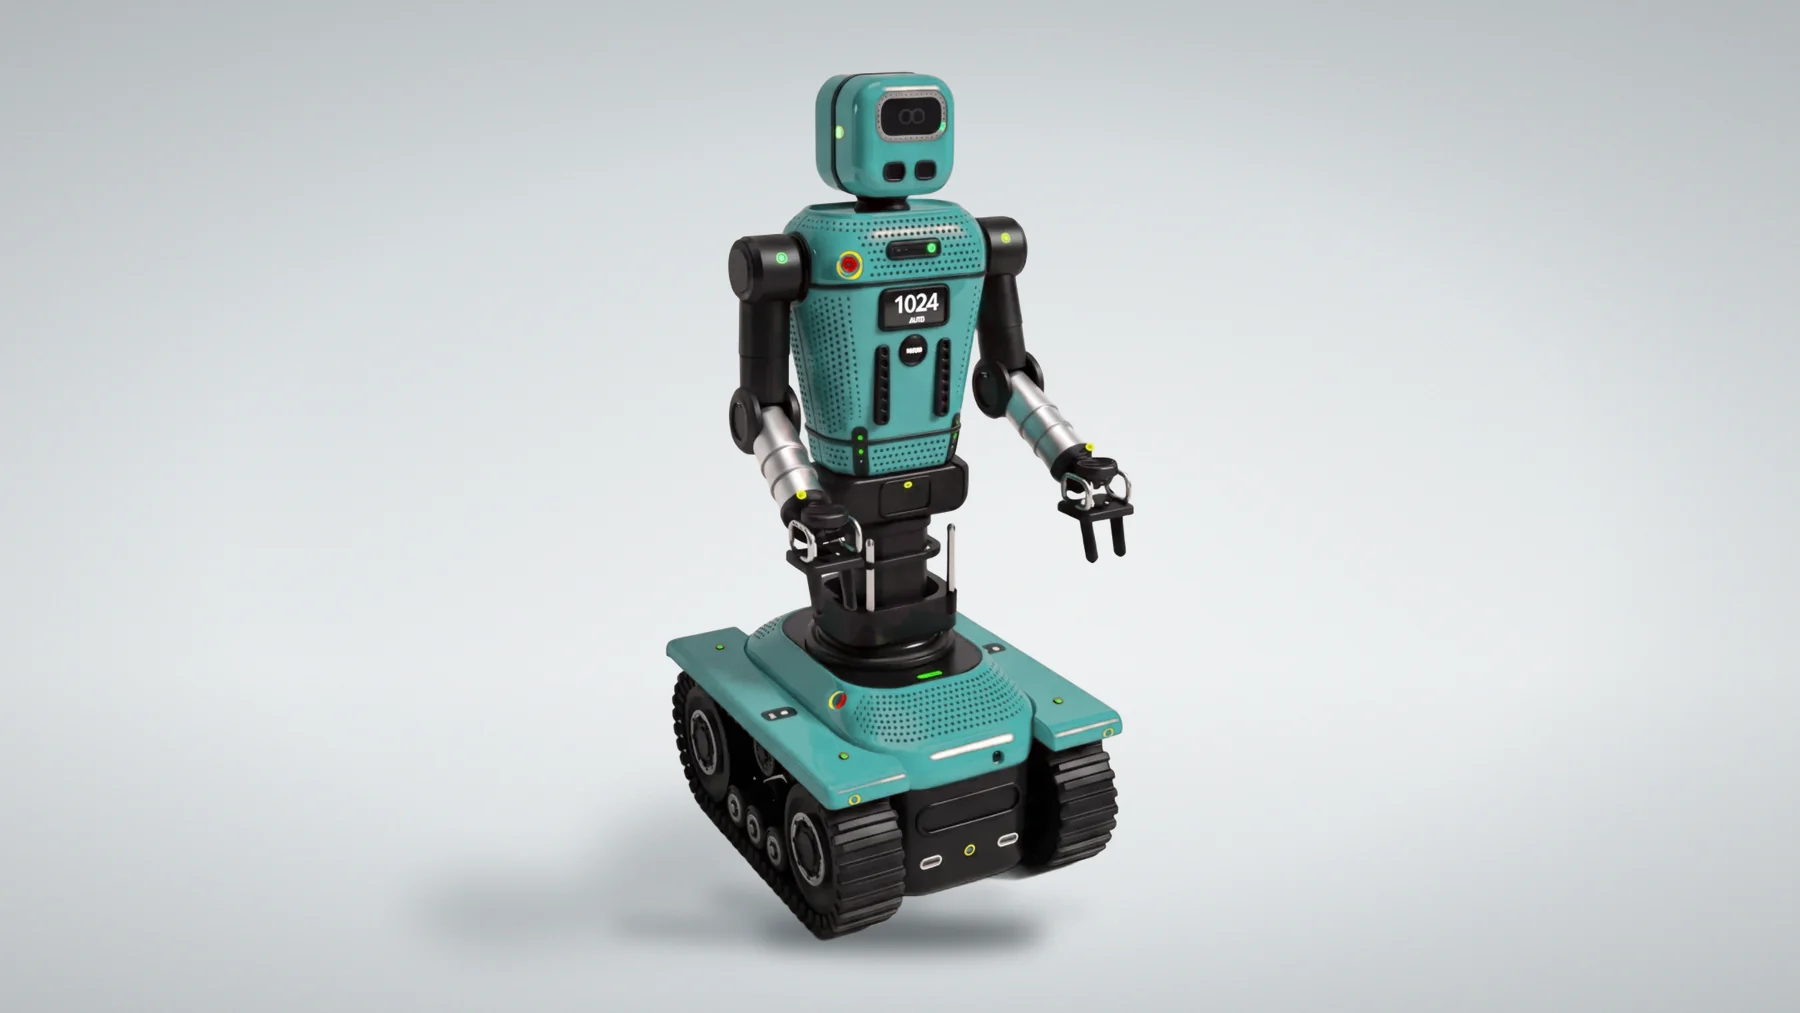
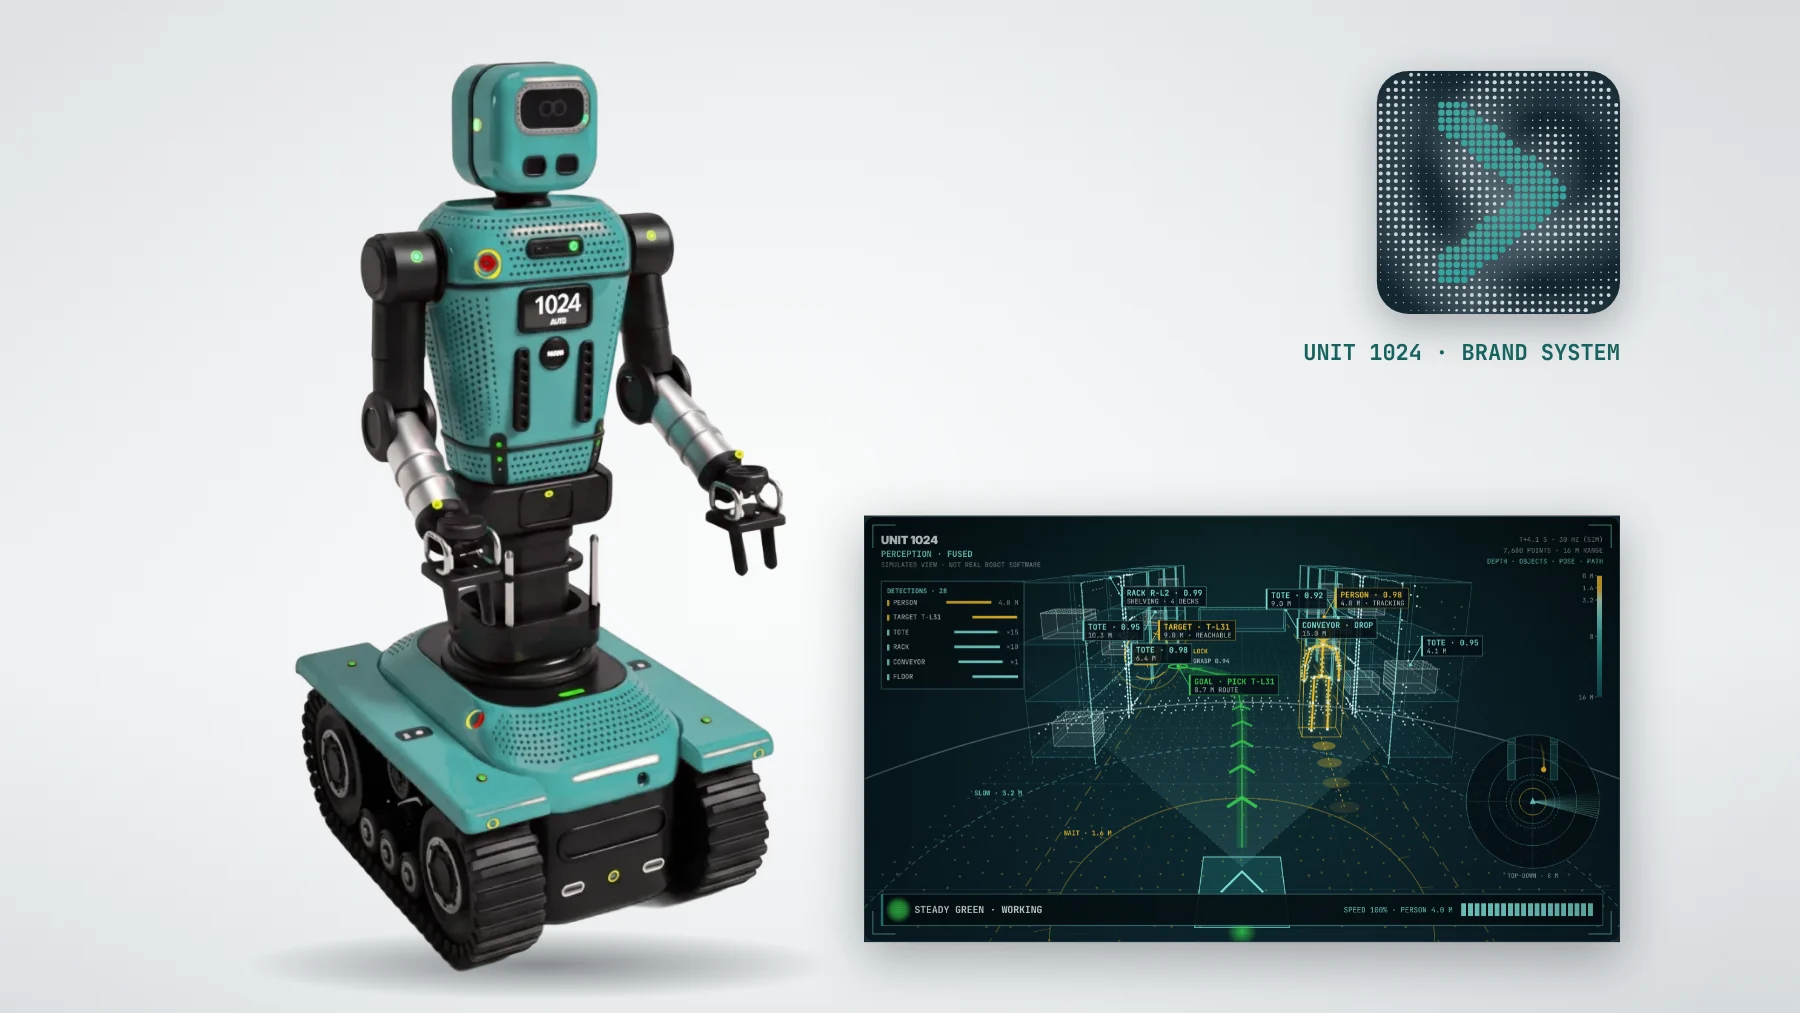
Home: new Robot Perforation card images and copy (brand system, film, perception)
Claude-Session: https://claude.ai/code/session_01TNyScwJnzqpCZzMWvbHjEJ

diff --git a/index.html b/index.html
@@ -2176,7 +2176,7 @@ const RULE_TOOLS=[
  {n:'FEATURE-LOCKED GRADING',st:'In development',r:'Some features scale with size; others, like web thickness or a hinge angle, must stay locked.',o:'A full size run where the critical dimensions hold in every size.'}
 ];
 const FEAT=[
- {id:'robot-perforation',href:'https://tigrestudiodesign.github.io/robot-perforation/',isNew:true,img:['img/rp__feat.webp',1125,900],k:'New · Robotics · Brand system + CMF · Rhino 9 + Vizcom',t:'Robot Perforation',d:"A tracked utility humanoid modelled in Rhino 9, shot from six scripted cameras and rendered in Vizcom, then re-liveried in a calm teal and black: an unofficial brand study in the plain, direct language of a humanoid maker, with every render I binned and why.",tags:['Robotics','Brand','CMF','Process']},
+ {id:'robot-perforation',href:'https://tigrestudiodesign.github.io/robot-perforation/',isNew:true,img:['img/rp__feat.webp',1125,900],k:'New · Robotics · Brand system + CMF · Rhino 9 + Vizcom',t:'Robot Perforation',d:"A tracked utility humanoid modelled in Rhino 9 and rendered in Vizcom, then given a whole brand: a mark generated per unit, a working design system with a live fleet console, an explainer film, a simulated perception view and 28 formats in use. An unofficial study in the plain, direct language of a humanoid maker.",tags:['Robotics','Brand','Design system','Motion']},
  {id:'ohm-01',href:'https://tigrestudiodesign.github.io/ohm/',isNew:true,img:['img/ohm__feat.webp',1125,900],k:'New · Footwear Concept · CMF · Python + Blender',t:'OHM-01 Puffer High-Top',d:"An unofficial women's puffer high-top for lululemon, built like soft hardware: a researched gathered collar, a graded 393-hole midsole and a parametric hike lug sole, modelled in code over nine design rounds: a Vizcom studio pass, a full CMF spec for three colourways and baked material maps.",tags:['Footwear','CMF','Parametric','Process']},
  {id:'basecamp',img:['img/bc2__hero.webp',1800,1440],k:'New · Industrial Design · Python + Blender',t:'BASECAMP Emergency Radio',d:'An upright hand-crank radio and pop-up lantern built to be repaired: product architecture, Torx hardware, CMF and a rule-driven speaker grille, all generated from code.',tags:['Product architecture','CMF','Computational design','Repairability']},
  {id:'pantera',href:'https://tigrestudiodesign.github.io/pantera/',isNew:true,img:['img/pt__feat.webp',1800,1440],k:'New · Footwear Pattern Engineering · Python + Rhino',t:'PANTERA Basketball Boot',d:"Frank Jones's hand method for a basketball boot double standard, run end to end in code on a 3D last: 11 parts at size, 19 of 19 checks within tolerance, a tech pack and a printable paper test kit.",tags:['Pattern engineering','Rules → code','Tech pack','Footwear']},
@@ -2624,7 +2624,7 @@ const SEL6=[
  ['hestia-knit-nodes',['img/hk__hero.webp?v=4',1600,1000],'HESTIA × Knit Nodes','Art direction · CMF · Robotics','A soft-goods identity for a home humanoid, from concept and colourways to a data engine that picks the knit for every zone.','Concept · 3 colourways · 11 zones × 10 knits','Me: concept, CMF, the knit-selection rules, art direction · Tools: Blender, Python scripts written with Claude, Vizcom finish'],
  ['p11',['img/ta__key1.webp',2000,1333],'Nike Tuned Air','Nike · My last program','Technical manuals and tech packs for two of the first Tuned Air programs, a new digital method of making Nike Air.','Announced Nov 2026 · Air development time down 70% (Nike)','Me: the manuals and tech packs, end to end · Tools: Nike’s own CAD and documentation pipeline'],
  ['material-library',['img/ml__board_vz.webp',2000,1600],'Material Library','CMF · Material library','Twenty material samples: fifteen read from my prototype photos and rebuilt as physical swatches, five new families specified from scratch.','20 samples · 9 families · full CMF spec','Me: read and specified every material, built the rebuilds, picked 20 from nearly 90 Vizcom outputs · Tools: Blender, Python with Claude, Vizcom'],
- ['robot-perforation/',['img/sel__robot-perforation.webp',1800,1013],'Robot Perforation','Robotics · Brand + CMF study','A tracked utility humanoid taken from a Rhino viewport to a six-view studio set, then re-liveried in a calm teal and black brand language without redrawing a single part.','1 mark · 1 film · 28 formats','Me: the Rhino model, the camera set, the brand read and every keep-or-bin call · Tools: Rhino 9, C#, Vizcom, Python livery pass with Claude'],
+ ['robot-perforation/',['img/sel__robot-perforation.webp',1800,1013],'Robot Perforation','Robotics · Brand system','A tracked utility humanoid taken from a Rhino viewport to a full brand: a mark per unit, a design system with a live fleet console, an explainer film and 28 formats in use.','1 mark · 1 film · 28 formats','Me: the Rhino model, the camera set, the brand read and every keep-or-bin call · Tools: Rhino 9, C#, Vizcom, Python, canvas and ffmpeg, built with Claude'],
  ['ohm/',['img/sel__ohm.webp',1800,1005],'OHM-01 Puffer High-Top','Concept · Footwear CMF','An unofficial women’s puffer high-top concept, taken through ten design rounds to three colourways with full material maps.','10 rounds · 3 colourways · material maps','Me: concept, CMF, every design decision across ten rounds · Tools: Blender, Python with Claude, Vizcom'],
  ['pantera/',['img/sel__pantera.webp',1760,902],'PANTERA Basketball Boot','Pattern engineering','A basketball boot patterned on a real last with Frank Jones’s method, from standard to flattened pieces.','Last to pattern · piece breakdown','Me: the pattern engineering on the last · Tools: Rhino, Python with Claude'],
  ['basecamp',['img/bc2__hero.webp',1800,1440],'BASECAMP Emergency Radio','Product concept · Documentation system','A hand-crank radio and lantern built to be repaired, documented end to end in my own manual system.','Product architecture · CMF · 8-chapter manual','Me: concept, industrial design, CMF, the manual · Tools: Blender, Python with Claude, Tinkercad, Arduino'],
